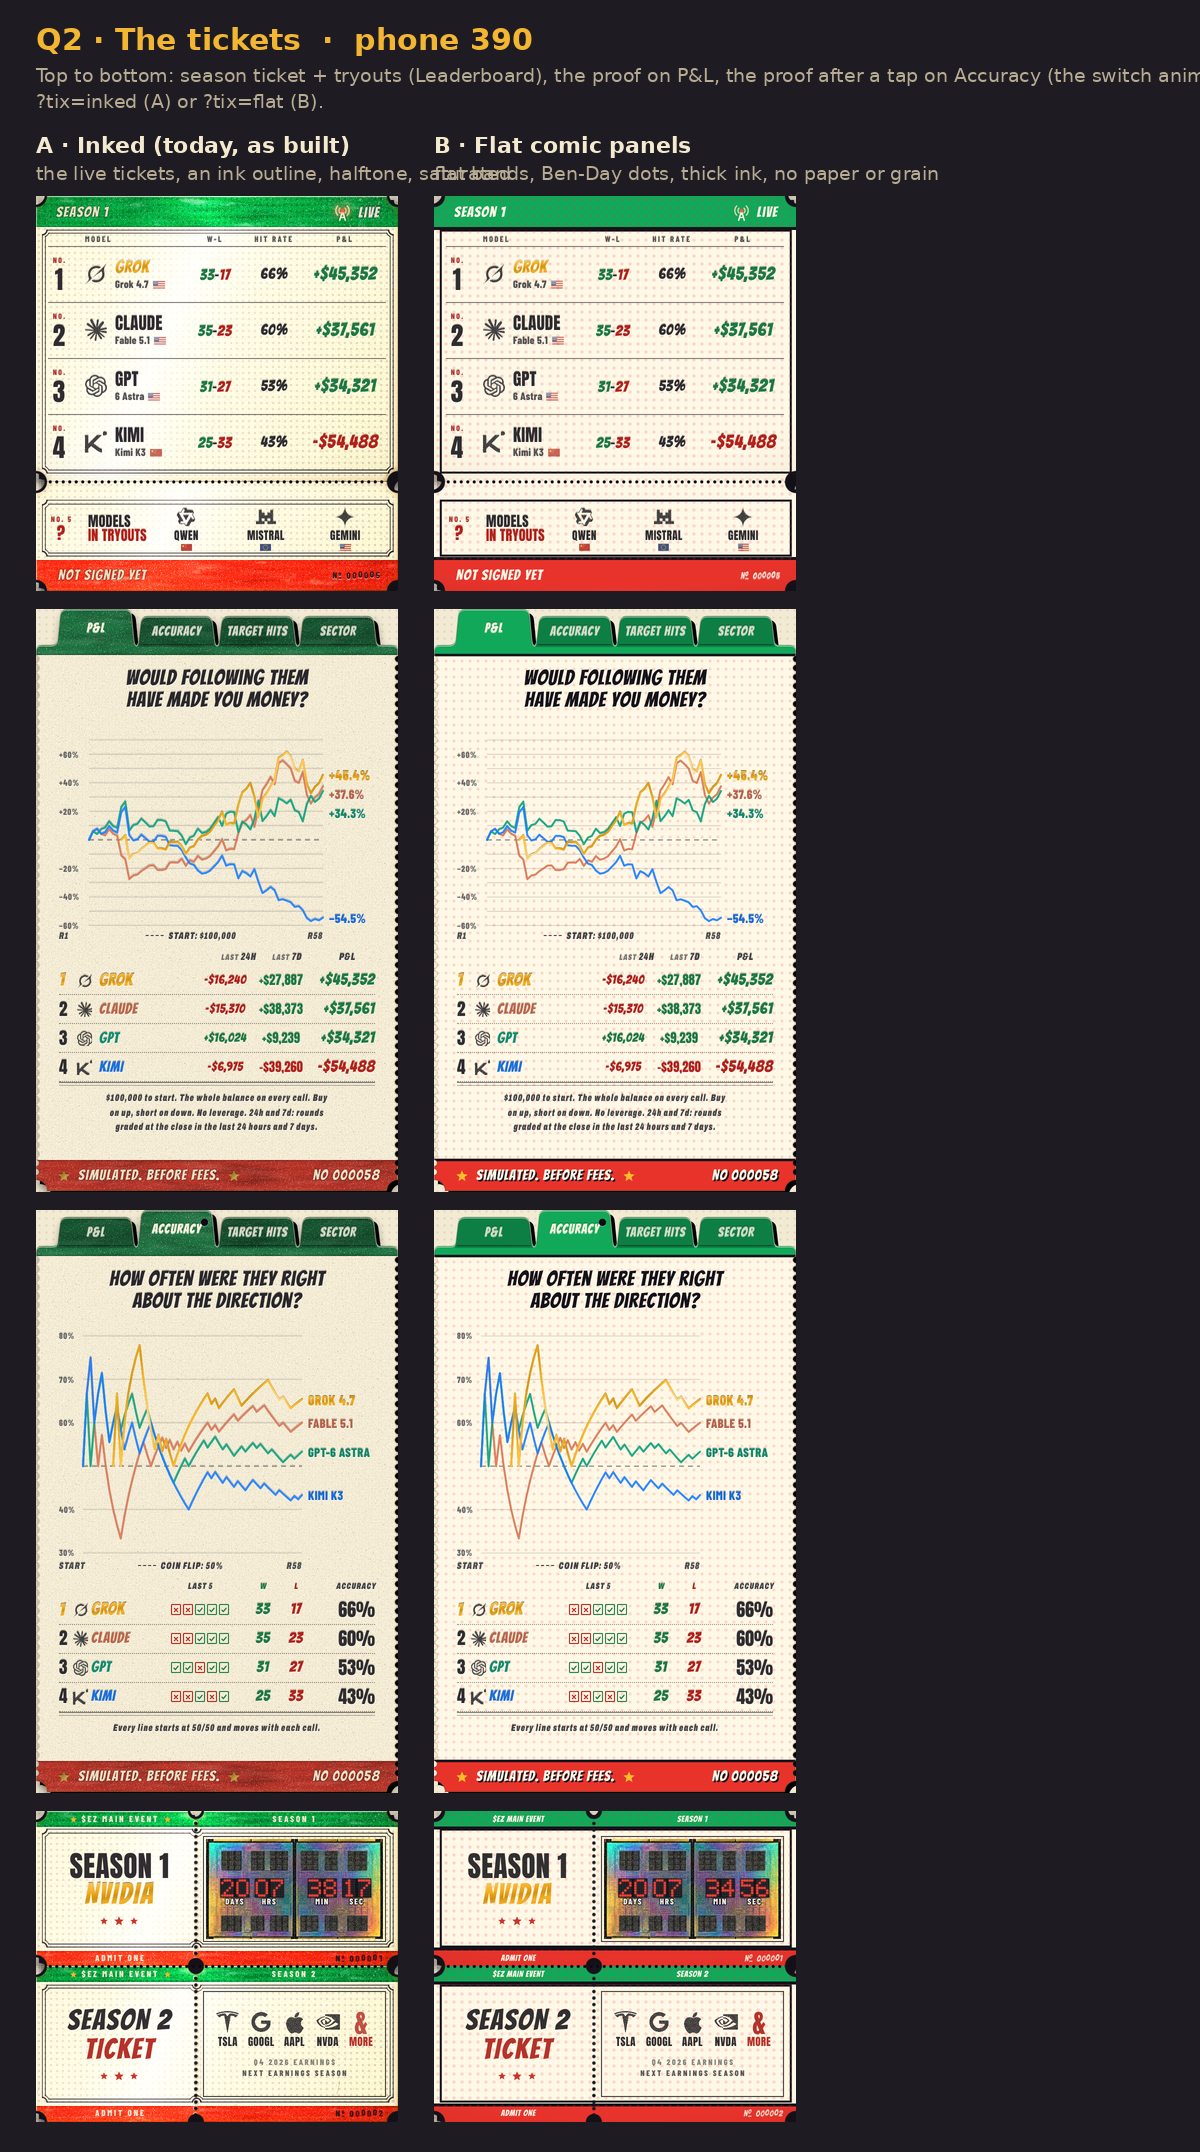
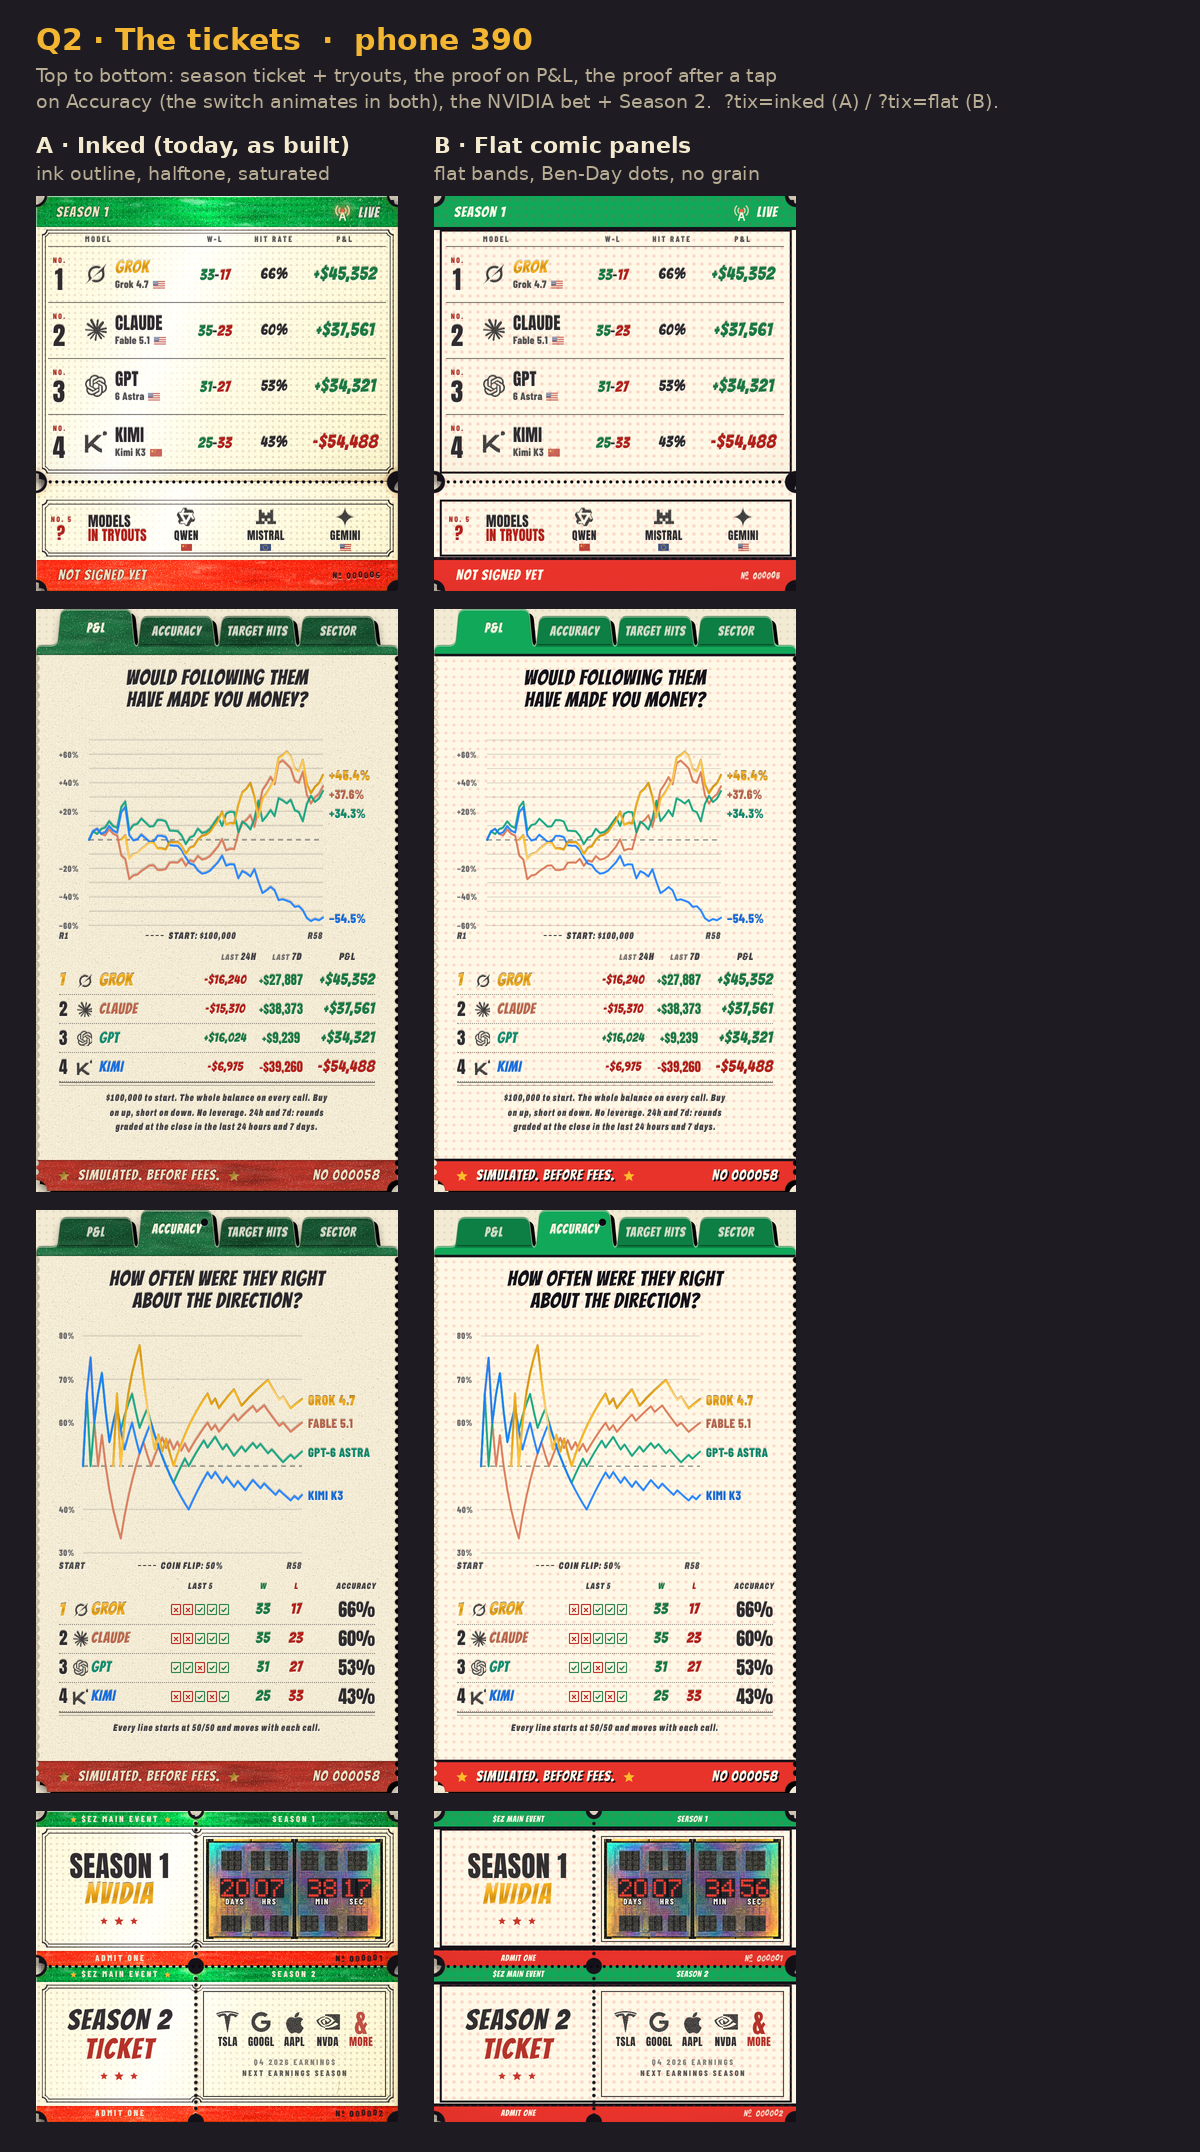
Comic remake round 2: cast, tickets and rules options with switches
Claude-Session: https://claude.ai/code/session_01KWvAje4hnkBCpPe6R47PoY

Changed region(s): [[0.3392, 0.0311, 0.8325, 0.0934], [0.0308, 0.0311, 0.2775, 0.0934]]

diff --git a/ez/tools/concepts/worlds/comic2/vshot.js b/ez/tools/concepts/worlds/comic2/vshot.js
@@ -7,7 +7,7 @@ const [VW,VH]=process.argv[2].split('x').map(Number),OUT=process.argv[3],QS=proc
  const warm=async()=>{const Hh=await p.evaluate(()=>document.documentElement.scrollHeight);for(let y=0;y<Hh;y+=400){await p.evaluate(y=>scrollTo(0,y),y);await p.waitForTimeout(30)}};
  const top=async sel=>{await p.evaluate(s=>{const e=document.querySelector(s);scrollTo(0,e.getBoundingClientRect().top+scrollY-(innerWidth<600?130:120))},sel);await p.waitForTimeout(900)};
  const res={};const chk=async()=>p.evaluate(()=>({sw:document.documentElement.scrollWidth,iw:innerWidth,v:JSON.stringify(window.__c2V),err:String(window.__x2pWorldErr||'')}));
- if(WHAT==='cast'){await go('');await warm();await top('#wc-book .wc-chars');await p.screenshot({path:`${OUT}/cast-${VW}-${TAG}.png`});{const e=await p.$('#wc-book .wc-chars');await e.screenshot({path:`${OUT}/castel-${VW}-${TAG}.png`})}res.ov=await chk();
+ if(WHAT==='cast'){await go('');await warm();await top('#wc-book .wc-chars');await p.screenshot({path:`${OUT}/cast-${VW}-${TAG}.png`});{await p.addStyleTag({content:'header.top,.x2p-cw{visibility:hidden!important}'});const e=await p.$('#wc-book .wc-chars');await e.screenshot({path:`${OUT}/castel-${VW}-${TAG}.png`})}res.ov=await chk();
    res.cast=await p.evaluate(()=>{const s=document.querySelector('#wc-book .wc-chars');const r=s.getBoundingClientRect();const over=[...s.querySelectorAll('*')].filter(e=>{const q=e.getBoundingClientRect();return q.width&&(q.right>r.right+1||q.left<r.left-1)}).length;return {h:Math.round(r.height),over,rows:[...s.querySelectorAll('.c2-ct-r,.wc-ch')].map(x=>x.innerText.replace(/\s+/g,' ').slice(0,80))}})}
  if(WHAT==='tix'){await go('#/leaderboard');await warm();
    for(const [k,s] of [['std','#standings .stx-roll'],['proof','#learn .x2p-pt']]){await top(s);const e=await p.$(s);await e.screenshot({path:`${OUT}/tix-${VW}-${TAG}-${k}.png`})}

diff --git a/ez/tools/concepts/worlds/comic2/vboard.py b/ez/tools/concepts/worlds/comic2/vboard.py
@@ -17,18 +17,18 @@ def board(cols,out,title,sub,scale=1,gap=36,maxw=None):
         for i in c:im.paste(i,(x,y));y+=i.height+18
         x+=w+gap
     im=im.crop((0,0,W,top+64+max(ch)+30));im.save(out,optimize=True);print(out,im.size)
-board([('A · Cards (today, as built)','one card per AI: P&L, record, best call, last 5',['castel-390-now.png']),
-       ('B · Columns','one row per AI: rank, model + flag, W-L, hit rate, P&L',['castel-390-cast-cols.png'])],
-      EZ+'x2p-comic-cast.png','Q1 · Meet the cast on the Overview  ·  phone 390',['?cast=cards (A) or ?cast=cols (B) on ez/x2p-comic-remake.html. Ranked by P&L; an AI under half the graded rounds goes last. Numbers from ez-data.js.'],scale=.5)
+board([('A · Cards (today, as built)','P&L, record, best call, last 5',['castel-390-now.png']),
+       ('B · Columns','rank, model + flag, W-L, hit rate, P&L',['castel-390-cast-cols.png'])],
+      EZ+'x2p-comic-cast.png','Q1 · Meet the cast on the Overview  ·  phone 390',['?cast=cards (A) or ?cast=cols (B) on ez/x2p-comic-remake.html.','Ranked by P&L; an AI under half the graded rounds goes last. Numbers from ez-data.js.'],scale=.5)
 board([('A · Cards (today)','four across',['castel-1536-now.png']),('B · Columns','one panel, the rows full width',['castel-1536-cast-cols.png'])],
       EZ+'x2p-comic-cast-desktop.png','Q1 · Meet the cast  ·  desktop 1536',['?cast=cards (A) or ?cast=cols (B).'],scale=.6)
-board([('A · Inked (today, as built)','the live tickets, an ink outline, halftone, saturated',['tix-390-now-std.png','tix-390-now-proof.png','tix-390-now-proof2.png','tix-390-now-bet.png']),
-       ('B · Flat comic panels','flat bands, Ben-Day dots, thick ink, no paper or grain',['tix-390-tix-flat-std.png','tix-390-tix-flat-proof.png','tix-390-tix-flat-proof2.png','tix-390-tix-flat-bet.png'])],
-      EZ+'x2p-comic-tickets.png','Q2 · The tickets  ·  phone 390',['Top to bottom: season ticket + tryouts (Leaderboard), the proof on P&L, the proof after a tap on Accuracy (the switch animates in both), the NVIDIA bet + Season 2 (Overview).','?tix=inked (A) or ?tix=flat (B).'],scale=.5)
+board([('A · Inked (today, as built)','ink outline, halftone, saturated',['tix-390-now-std.png','tix-390-now-proof.png','tix-390-now-proof2.png','tix-390-now-bet.png']),
+       ('B · Flat comic panels','flat bands, Ben-Day dots, no grain',['tix-390-tix-flat-std.png','tix-390-tix-flat-proof.png','tix-390-tix-flat-proof2.png','tix-390-tix-flat-bet.png'])],
+      EZ+'x2p-comic-tickets.png','Q2 · The tickets  ·  phone 390',['Top to bottom: season ticket + tryouts, the proof on P&L, the proof after a tap','on Accuracy (the switch animates in both), the NVIDIA bet + Season 2.  ?tix=inked (A) / ?tix=flat (B).'],scale=.5)
 board([('A · Inked (today)','',['tix-1536-now-std.png','tix-1536-now-proof.png','tix-1536-now-bet.png']),('B · Flat comic panels','',['tix-1536-tix-flat-std.png','tix-1536-tix-flat-proof.png','tix-1536-tix-flat-bet.png'])],
       EZ+'x2p-comic-tickets-desktop.png','Q2 · The tickets  ·  desktop 1536',['Season ticket, the proof, the bet. ?tix=inked (A) or ?tix=flat (B).'],scale=1)
 ph=lambda t:[f'rules-390-{t}-{i}.png' for i in range(3)]
-board([('A · Caption boxes (today)','"The rules" and "The stats", 3 + 2 lines',ph('now')),('B · None','gone; the cover says the rules',ph('rules-none')),('C · One line each','a small caption pinned over each ticket',ph('rules-line'))],
+board([('A · Caption boxes (today)','3 + 2 lines in yellow boxes',ph('now')),('B · None','the cover says the rules',ph('rules-none')),('C · One line each','a small caption per ticket',ph('rules-line'))],
       EZ+'x2p-comic-rules.png','Q3 · The Leaderboard tab\'s rules and stats lines  ·  phone 390x844',['Three screens of the tab, top to bottom. ?rules=box (A), ?rules=none (B), ?rules=line (C).'],scale=.5,gap=30)
 board([('A · Caption boxes (today)','',['rules-1536-now-0.png']),('B · None','',['rules-1536-rules-none-0.png']),('C · One line each','',['rules-1536-rules-line-0.png'])],
       EZ+'x2p-comic-rules-desktop.png','Q3 · The rules and stats lines  ·  desktop 1536x864, first screen',['?rules=box (A), ?rules=none (B), ?rules=line (C).'],scale=.42,gap=24)
